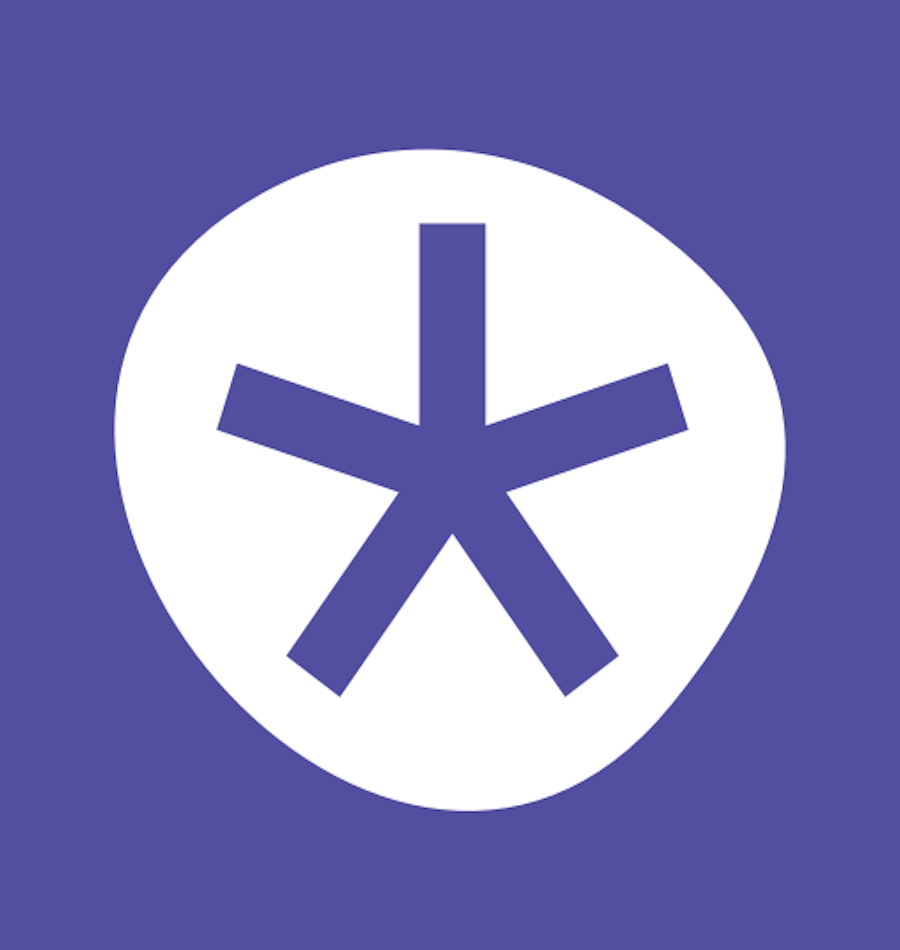
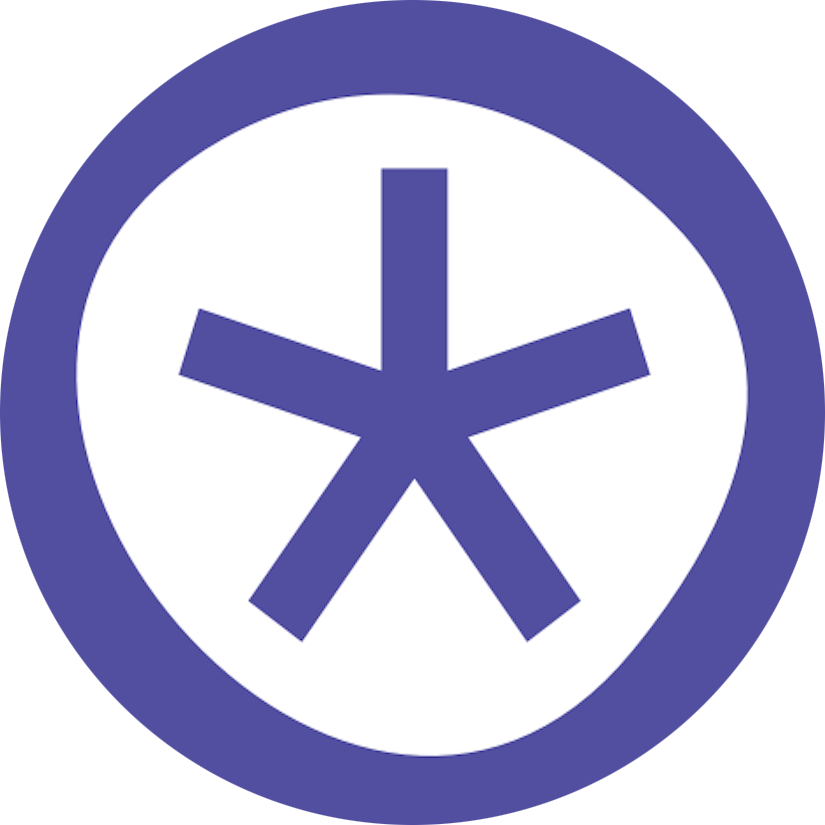
update

diff --git a/css/freelancer.min.css b/css/freelancer.min.css
@@ -2,4 +2,5 @@
  * Start Bootstrap - Freelancer v3.3.7+1 (http://startbootstrap.com/template-overviews/freelancer)
  * Copyright 2013-2016 Start Bootstrap
  * Licensed under MIT (https://github.com/BlackrockDigital/startbootstrap/blob/gh-pages/LICENSE)
- */body{font-family:Lato,'Helvetica Neue',Helvetica,Arial,sans-serif;overflow-x:hidden}p{font-size:20px}p.small{font-size:16px}a,a.active,a:active,a:focus,a:hover{color:#18BC9C}h1,h2,h3,h4,h5,h6{font-family:Montserrat,"Helvetica Neue",Helvetica,Arial,sans-serif;text-transform:uppercase;font-weight:700}hr.star-light,hr.star-primary{padding:0;border:none;border-top:solid 5px;text-align:center;max-width:250px;margin:25px auto 30px}hr.star-light:after,hr.star-primary:after{content:"\f005";font-family:FontAwesome;display:inline-block;position:relative;top:-.8em;font-size:2em;padding:0 .25em}hr.star-light{border-color:#fff}hr.star-light:after{background-color:#18BC9C;color:#fff}hr.star-primary{border-color:#2C3E50}hr.star-primary:after{background-color:#fff;color:#2C3E50}.img-centered{margin:0 auto}header{text-align:center;background:#18BC9C;color:#fff}header .container{padding-top:100px;padding-bottom:50px}header img{display:block;margin:0 auto 20px}header .intro-text .name{display:block;font-family:Montserrat,"Helvetica Neue",Helvetica,Arial,sans-serif;text-transform:uppercase;font-weight:700;font-size:2em}header .intro-text .skills{font-size:1.25em;font-weight:300}@media (min-width:768px){header .container{padding-top:200px;padding-bottom:100px}header .intro-text .name{font-size:4.75em}header .intro-text .skills{font-size:1.75em}}.navbar-custom{background:#2C3E50;font-family:Montserrat,"Helvetica Neue",Helvetica,Arial,sans-serif;text-transform:uppercase;font-weight:700;border:none}.navbar-custom .navbar-brand,.navbar-custom .navbar-brand.active,.navbar-custom .navbar-brand:active,.navbar-custom .navbar-brand:focus,.navbar-custom .navbar-brand:hover{color:#fff}.navbar-custom .navbar-nav{letter-spacing:1px}.navbar-custom .navbar-nav li a{color:#fff}.navbar-custom .navbar-nav li a:hover{color:#18BC9C}.navbar-custom .navbar-nav li a:active,.navbar-custom .navbar-nav li a:focus{color:#fff}.navbar-custom .navbar-nav li.active a,.navbar-custom .navbar-nav li.active a:active,.navbar-custom .navbar-nav li.active a:focus,.navbar-custom .navbar-nav li.active a:hover{color:#fff;background:#18BC9C}.navbar-custom .navbar-toggle{color:#fff;text-transform:uppercase;font-size:10px;border-color:#fff}.navbar-custom .navbar-toggle:focus,.navbar-custom .navbar-toggle:hover{background-color:#18BC9C;color:#fff;border-color:#18BC9C}@media (min-width:768px){.navbar-custom{padding:25px 0;-webkit-transition:padding .3s;-moz-transition:padding .3s;transition:padding .3s}.navbar-custom .navbar-brand{font-size:2em;-webkit-transition:all .3s;-moz-transition:all .3s;transition:all .3s}.navbar-custom.affix{padding:10px 0}.navbar-custom.affix .navbar-brand{font-size:1.5em}}section{padding:100px 0}section h2{margin:0;font-size:3em}section.success{background:#18BC9C;color:#fff}@media (max-width:767px){section{padding:75px 0}section.first{padding-top:75px}}#portfolio .portfolio-item{margin:0 0 15px;right:0}#portfolio .portfolio-item .portfolio-link{display:block;position:relative;max-width:400px;margin:0 auto}#portfolio .portfolio-item .portfolio-link .caption{background:rgba(255,255,255,.8);position:absolute;width:100%;height:100%;opacity:0;transition:all ease .5s;-webkit-transition:all ease .5s;-moz-transition:all ease .5s}#portfolio .portfolio-item .portfolio-link .caption:hover{opacity:1}#portfolio .portfolio-item .portfolio-link .caption .caption-content{position:absolute;width:100%;height:20px;font-size:20px;text-align:center;top:50%;margin-top:-12px;color:#fff}#portfolio .portfolio-item .portfolio-link .caption .caption-content i{margin-top:-12px}#portfolio .portfolio-item .portfolio-link .caption .caption-content h3,#portfolio .portfolio-item .portfolio-link .caption .caption-content h4{margin:0}#portfolio *{z-index:2}@media (min-width:767px){#portfolio .portfolio-item{margin:0 0 30px; height: 100px; width: 100px; border-radius: 50px;}}.floating-label-form-group{position:relative;margin-bottom:0;padding-bottom:.5em;border-bottom:1px solid #eee}.floating-label-form-group input,.floating-label-form-group textarea{z-index:1;position:relative;padding-right:0;padding-left:0;border:none;border-radius:0;font-size:1.5em;background:0 0;box-shadow:none!important;resize:none}.floating-label-form-group label{display:block;z-index:0;position:relative;top:2em;margin:0;font-size:.85em;line-height:1.764705882em;vertical-align:middle;vertical-align:baseline;opacity:0;-webkit-transition:top .3s ease,opacity .3s ease;-moz-transition:top .3s ease,opacity .3s ease;-ms-transition:top .3s ease,opacity .3s ease;transition:top .3s ease,opacity .3s ease}.floating-label-form-group:not(:first-child){padding-left:14px;border-left:1px solid #eee}.floating-label-form-group-with-value label{top:0;opacity:1}.floating-label-form-group-with-focus label{color:#18BC9C}form .row:first-child .floating-label-form-group{border-top:1px solid #eee}footer{color:#fff}footer h3{margin-bottom:30px}footer .footer-above{padding-top:50px;background-color:#2C3E50}footer .footer-col{margin-bottom:50px}footer .footer-below{padding:25px 0;background-color:#233140}.btn-outline{color:#fff;font-size:20px;border:2px solid #fff;background:0 0;transition:all .3s ease-in-out;margin-top:15px}.btn-outline.active,.btn-outline:active,.btn-outline:focus,.btn-outline:hover{color:#18BC9C;background:#fff;border:2px solid #fff}.btn-primary{color:#fff;background-color:#2C3E50;border-color:#2C3E50;font-weight:700}.btn-primary.active,.btn-primary:active,.btn-primary:focus,.btn-primary:hover,.open .dropdown-toggle.btn-primary{color:#fff;background-color:#1a242f;border-color:#161f29}.btn-primary.active,.btn-primary:active,.open .dropdown-toggle.btn-primary{background-image:none}.btn-primary.disabled,.btn-primary.disabled.active,.btn-primary.disabled:active,.btn-primary.disabled:focus,.btn-primary.disabled:hover,.btn-primary[disabled],.btn-primary[disabled].active,.btn-primary[disabled]:active,.btn-primary[disabled]:focus,.btn-primary[disabled]:hover,fieldset[disabled] .btn-primary,fieldset[disabled] .btn-primary.active,fieldset[disabled] .btn-primary:active,fieldset[disabled] .btn-primary:focus,fieldset[disabled] .btn-primary:hover{background-color:#2C3E50;border-color:#2C3E50}.btn-primary .badge{color:#2C3E50;background-color:#fff}.btn-success{color:#fff;background-color:#18BC9C;border-color:#18BC9C;font-weight:700}.btn-success.active,.btn-success:active,.btn-success:focus,.btn-success:hover,.open .dropdown-toggle.btn-success{color:#fff;background-color:#128f76;border-color:#11866f}.btn-success.active,.btn-success:active,.open .dropdown-toggle.btn-success{background-image:none}.btn-success.disabled,.btn-success.disabled.active,.btn-success.disabled:active,.btn-success.disabled:focus,.btn-success.disabled:hover,.btn-success[disabled],.btn-success[disabled].active,.btn-success[disabled]:active,.btn-success[disabled]:focus,.btn-success[disabled]:hover,fieldset[disabled] .btn-success,fieldset[disabled] .btn-success.active,fieldset[disabled] .btn-success:active,fieldset[disabled] .btn-success:focus,fieldset[disabled] .btn-success:hover{background-color:#18BC9C;border-color:#18BC9C}.btn-success .badge{color:#18BC9C;background-color:#fff}.btn-social{display:inline-block;height:50px;width:50px;border:2px solid #fff;border-radius:100%;text-align:center;font-size:20px;line-height:45px}.scroll-top{position:fixed;right:2%;bottom:2%;width:50px;height:50px;z-index:1049}.scroll-top .btn{font-size:20px;width:50px;height:50px;border-radius:100%;line-height:28px}.portfolio-modal .modal-content{border-radius:0;background-clip:border-box;-webkit-box-shadow:none;box-shadow:none;border:none;min-height:100%;padding:100px 0;text-align:center}.portfolio-modal .modal-content h2{margin:0;font-size:3em}.portfolio-modal .modal-content img{margin-bottom:30px}.portfolio-modal .modal-content .item-details{margin:30px 0}.portfolio-modal .close-modal{position:absolute;width:75px;height:75px;background-color:transparent;top:25px;right:25px;cursor:pointer}.portfolio-modal .close-modal:hover{opacity:.3}.portfolio-modal .close-modal .lr{height:75px;width:1px;margin-left:35px;background-color:#2C3E50;transform:rotate(45deg);-ms-transform:rotate(45deg);-webkit-transform:rotate(45deg);z-index:1051}.portfolio-modal .close-modal .lr .rl{height:75px;width:1px;background-color:#2C3E50;transform:rotate(90deg);-ms-transform:rotate(90deg);-webkit-transform:rotate(90deg);z-index:1052}.portfolio-modal .modal-backdrop{opacity:0;display:none}#skipnav a{padding:6px;position:absolute;top:-40px;left:0;color:#fff;border-right:1px solid #fff;border-bottom:1px solid #fff;border-bottom-right-radius:8px;background:0 0;transition:top 1s ease-out,background 1s linear;z-index:2000}#skipnav a:focus{position:absolute;left:0;top:0;background:#18BC9C;outline:0;transition:top .1s ease-in,background .5s linear}div#maincontent{outline:0}
+ */body{font-family:Lato,'Helvetica Neue',Helvetica,Arial,sans-serif;overflow-x:hidden}p{font-size:20px}p.small{font-size:16px}a,a.active,a:active,a:focus,a:hover{color:#18BC9C}h1,h2,h3,h4,h5,h6{font-family:Montserrat,"Helvetica Neue",Helvetica,Arial,sans-serif;text-transform:uppercase;font-weight:700}hr.star-light,hr.star-primary{padding:0;border:none;border-top:solid 5px;text-align:center;max-width:250px;margin:25px auto 30px}hr.star-light:after,hr.star-primary:after{content:"\f005";font-family:FontAwesome;display:inline-block;position:relative;top:-.8em;font-size:2em;padding:0 .25em}hr.star-light{border-color:#fff}hr.star-light:after{background-color:#18BC9C;color:#fff}hr.star-primary{border-color:#2C3E50}hr.star-primary:after{background-color:#fff;color:#2C3E50}.img-centered{margin:0 auto}header{text-align:center;background:#18BC9C;color:#fff}header .container{padding-top:100px;padding-bottom:50px}header img{display:block;margin:0 auto 20px}header .intro-text .name{display:block;font-family:Montserrat,"Helvetica Neue",Helvetica,Arial,sans-serif;text-transform:uppercase;font-weight:700;font-size:2em}header .intro-text .skills{font-size:1.25em;font-weight:300}@media (min-width:768px){header .container{padding-top:200px;padding-bottom:100px}header .intro-text .name{font-size:4.75em}header .intro-text .skills{font-size:1.75em}}.navbar-custom{background:#2C3E50;font-family:Montserrat,"Helvetica Neue",Helvetica,Arial,sans-serif;text-transform:uppercase;font-weight:700;border:none}.navbar-custom .navbar-brand,.navbar-custom .navbar-brand.active,.navbar-custom .navbar-brand:active,.navbar-custom .navbar-brand:focus,.navbar-custom .navbar-brand:hover{color:#fff}.navbar-custom .navbar-nav{letter-spacing:1px}.navbar-custom .navbar-nav li a{color:#fff}.navbar-custom .navbar-nav li a:hover{color:#18BC9C}.navbar-custom .navbar-nav li a:active,.navbar-custom .navbar-nav li a:focus{color:#fff}.navbar-custom .navbar-nav li.active a,.navbar-custom .navbar-nav li.active a:active,.navbar-custom .navbar-nav li.active a:focus,.navbar-custom .navbar-nav li.active a:hover{color:#fff;background:#18BC9C}.navbar-custom .navbar-toggle{color:#fff;text-transform:uppercase;font-size:10px;border-color:#fff}.navbar-custom .navbar-toggle:focus,.navbar-custom .navbar-toggle:hover{background-color:#18BC9C;color:#fff;border-color:#18BC9C}@media (min-width:768px){.navbar-custom{padding:25px 0;-webkit-transition:padding .3s;-moz-transition:padding .3s;transition:padding .3s}.navbar-custom .navbar-brand{font-size:2em;-webkit-transition:all .3s;-moz-transition:all .3s;transition:all .3s}.navbar-custom.affix{padding:10px 0}.navbar-custom.affix .navbar-brand{font-size:1.5em}}section{padding:100px 0}section h2{margin:0;font-size:3em}section.success{background:#18BC9C;color:#fff}@media (max-width:767px){section{padding:75px 0}section.first{padding-top:75px}}#portfolio .portfolio-item{margin:0 0 15px;right:0}#portfolio .portfolio-item .portfolio-link{display:block;position:relative;max-width:400px;margin:0 auto}#portfolio .portfolio-item .portfolio-link .caption{background:rgba(255,255,255,.8);position:absolute;width:100%;height:100%;opacity:0;transition:all ease .5s;-webkit-transition:all ease .5s;-moz-transition:all ease .5s}#portfolio .portfolio-item .portfolio-link .caption:hover{opacity:1}#portfolio .portfolio-item .portfolio-link .caption .caption-content{position:absolute;width:100%;height:20px;font-size:20px;text-align:center;top:50%;margin-top:-12px;color:#fff}#portfolio .portfolio-item .portfolio-link .caption .caption-content i{margin-top:-12px}#portfolio .portfolio-item .portfolio-link .caption .caption-content h3,#portfolio .portfolio-item .portfolio-link .caption .caption-content h4{margin:0}#portfolio *{z-index:2}@media (min-width:767px){#portfolio .portfolio-item{margin:0 0 30px;}}.floating-label-form-group{position:relative;margin-bottom:0;padding-bottom:.5em;border-bottom:1px solid #eee}.floating-label-form-group input,.floating-label-form-group textarea{z-index:1;position:relative;padding-right:0;padding-left:0;border:none;border-radius:0;font-size:1.5em;background:0 0;box-shadow:none!important;resize:none}.floating-label-form-group label{display:block;z-index:0;position:relative;top:2em;margin:0;font-size:.85em;line-height:1.764705882em;vertical-align:middle;vertical-align:baseline;opacity:0;-webkit-transition:top .3s ease,opacity .3s ease;-moz-transition:top .3s ease,opacity .3s ease;-ms-transition:top .3s ease,opacity .3s ease;transition:top .3s ease,opacity .3s ease}.floating-label-form-group:not(:first-child){padding-left:14px;border-left:1px solid #eee}.floating-label-form-group-with-value label{top:0;opacity:1}.floating-label-form-group-with-focus label{color:#18BC9C}form .row:first-child .floating-label-form-group{border-top:1px solid #eee}footer{color:#fff}footer h3{margin-bottom:30px}footer .footer-above{padding-top:50px;background-color:#2C3E50}footer .footer-col{margin-bottom:50px}footer .footer-below{padding:25px 0;background-color:#233140}.btn-outline{color:#fff;font-size:20px;border:2px solid #fff;background:0 0;transition:all .3s ease-in-out;margin-top:15px}.btn-outline.active,.btn-outline:active,.btn-outline:focus,.btn-outline:hover{color:#18BC9C;background:#fff;border:2px solid #fff}.btn-primary{color:#fff;background-color:#2C3E50;border-color:#2C3E50;font-weight:700}.btn-primary.active,.btn-primary:active,.btn-primary:focus,.btn-primary:hover,.open .dropdown-toggle.btn-primary{color:#fff;background-color:#1a242f;border-color:#161f29}.btn-primary.active,.btn-primary:active,.open .dropdown-toggle.btn-primary{background-image:none}.btn-primary.disabled,.btn-primary.disabled.active,.btn-primary.disabled:active,.btn-primary.disabled:focus,.btn-primary.disabled:hover,.btn-primary[disabled],.btn-primary[disabled].active,.btn-primary[disabled]:active,.btn-primary[disabled]:focus,.btn-primary[disabled]:hover,fieldset[disabled] .btn-primary,fieldset[disabled] .btn-primary.active,fieldset[disabled] .btn-primary:active,fieldset[disabled] .btn-primary:focus,fieldset[disabled] .btn-primary:hover{background-color:#2C3E50;border-color:#2C3E50}.btn-primary .badge{color:#2C3E50;background-color:#fff}.btn-success{color:#fff;background-color:#18BC9C;border-color:#18BC9C;font-weight:700}.btn-success.active,.btn-success:active,.btn-success:focus,.btn-success:hover,.open .dropdown-toggle.btn-success{color:#fff;background-color:#128f76;border-color:#11866f}.btn-success.active,.btn-success:active,.open .dropdown-toggle.btn-success{background-image:none}.btn-success.disabled,.btn-success.disabled.active,.btn-success.disabled:active,.btn-success.disabled:focus,.btn-success.disabled:hover,.btn-success[disabled],.btn-success[disabled].active,.btn-success[disabled]:active,.btn-success[disabled]:focus,.btn-success[disabled]:hover,fieldset[disabled] .btn-success,fieldset[disabled] .btn-success.active,fieldset[disabled] .btn-success:active,fieldset[disabled] .btn-success:focus,fieldset[disabled] .btn-success:hover{background-color:#18BC9C;border-color:#18BC9C}.btn-success .badge{color:#18BC9C;background-color:#fff}.btn-social{display:inline-block;height:50px;width:50px;border:2px solid #fff;border-radius:100%;text-align:center;font-size:20px;line-height:45px}.scroll-top{position:fixed;right:2%;bottom:2%;width:50px;height:50px;z-index:1049}.scroll-top .btn{font-size:20px;width:50px;height:50px;border-radius:100%;line-height:28px}.portfolio-modal .modal-content{border-radius:0;background-clip:border-box;-webkit-box-shadow:none;box-shadow:none;border:none;min-height:100%;padding:100px 0;text-align:center}.portfolio-modal .modal-content h2{margin:0;font-size:3em}.portfolio-modal .modal-content img{margin-bottom:30px}.portfolio-modal .modal-content .item-details{margin:30px 0}.portfolio-modal .close-modal{position:absolute;width:75px;height:75px;background-color:transparent;top:25px;right:25px;cursor:pointer}.portfolio-modal .close-modal:hover{opacity:.3}.portfolio-modal .close-modal .lr{height:75px;width:1px;margin-left:35px;background-color:#2C3E50;transform:rotate(45deg);-ms-transform:rotate(45deg);-webkit-transform:rotate(45deg);z-index:1051}.portfolio-modal .close-modal .lr .rl{height:75px;width:1px;background-color:#2C3E50;transform:rotate(90deg);-ms-transform:rotate(90deg);-webkit-transform:rotate(90deg);z-index:1052}.portfolio-modal .modal-backdrop{opacity:0;display:none}#skipnav a{padding:6px;position:absolute;top:-40px;left:0;color:#fff;border-right:1px solid #fff;border-bottom:1px solid #fff;border-bottom-right-radius:8px;background:0 0;transition:top 1s ease-out,background 1s linear;z-index:2000}#skipnav a:focus{position:absolute;left:0;top:0;background:#18BC9C;outline:0;transition:top .1s ease-in,background .5s linear}div#maincontent{outline:0}
+ .app-img{border-radius: 50%;}

diff --git a/portfolio.html b/portfolio.html
@@ -91,7 +91,7 @@
                 </div>
                 <div class="row">
                     <div class="col-sm-4">
-                        <img class="img-responsive img-centered" src="/assets/profile3.png" alt=""> <br />
+                        <img class="img-centered" src="/assets/profile3.png" alt=""> <br />
                     </div>
                     <div class="col-sm-4 text-center">
                         <h4>개발자 김보균입니다!</h4>
@@ -185,6 +185,7 @@
                     <button class="btn btn-default control" data-filter=".android">Android</button>
                     <button class="btn btn-default control" data-filter=".ionic">Ionic2</button>
                     <button class="btn btn-default control" data-filter=".ReactNative">ReactNative</button>
+                    <button class="btn btn-default control" data-filter=".Flutter">Flutter</button>
                     <button class="btn btn-default control" data-filter=".arduino">Arduino</button>
                     <button class="btn btn-default control" data-filter=".windows">Windows</button>
                     <br><br>
@@ -201,7 +202,7 @@
                                     <i class="fa fa-search-plus fa-3x"></i>
                                 </div>
                             </div>
-                            <img src="assets/portfolio/foroom.png" class="img-responsive" alt="포룸 인테리어">
+                            <img src="assets/portfolio/foroom.png" class="img-responsive app-img" alt="포룸 인테리어">
                         </a>
                     </div>
 
@@ -215,7 +216,7 @@
                                     <i class="fa fa-search-plus fa-3x"></i>
                                 </div>
                             </div>
-                            <img src="assets/portfolio/VOT.png" class="img-responsive" alt="천 개의 목소리">
+                            <img src="assets/portfolio/VOT.png" class="img-responsive app-img" alt="천 개의 목소리">
                         </a>
                     </div>
 
@@ -230,7 +231,7 @@
                                     <i class="fa fa-search-plus fa-3x"></i>
                                 </div>
                             </div>
-                            <img src="assets/portfolio/ardrumoid.png" class="img-responsive" alt="arDRUMoid">
+                            <img src="assets/portfolio/ardrumoid.png" class="img-responsive app-img" alt="arDRUMoid">
                         </a>
                     </div>
 
@@ -243,7 +244,7 @@
                                     <i class="fa fa-search-plus fa-3x"></i>
                                 </div>
                             </div>
-                            <img src="assets/portfolio/recipedia.png" class="img-responsive" alt="Recipedia">
+                            <img src="assets/portfolio/recipedia.png" class="img-responsive app-img" alt="Recipedia">
                         </a>
                     </div>
 
@@ -254,7 +255,7 @@
                                     <i class="fa fa-search-plus fa-3x"></i>
                                 </div>
                             </div>
-                            <img src="assets/portfolio/lookar.png" class="img-responsive" alt="LooKar">
+                            <img src="assets/portfolio/lookar.png" class="img-responsive app-img" alt="LooKar">
                         </a>
                     </div>
 
@@ -265,7 +266,7 @@
                                     <i class="fa fa-search-plus fa-3x"></i>
                                 </div>
                             </div>
-                            <img src="assets/portfolio/andante.png" class="img-responsive" alt="Andante">
+                            <img src="assets/portfolio/andante.png" class="img-responsive app-img" alt="Andante">
                         </a>
                     </div>
 
@@ -277,7 +278,7 @@
                                     <i class="fa fa-search-plus fa-3x"></i>
                                 </div>
                             </div>
-                            <img src="assets/portfolio/madlen.png" class="img-responsive" alt="Madlen">
+                            <img src="assets/portfolio/madlen.png" class="img-responsive app-img" alt="Madlen">
                         </a>
                     </div>
                     <div class="mix kbg android windows col-sm-4 portfolio-item">
@@ -287,17 +288,37 @@
                                     <i class="fa fa-search-plus fa-3x"></i>
                                 </div>
                             </div>
-                            <img src="assets/portfolio/dionysign.png" class="img-responsive" alt="Dionysign">
+                            <img src="assets/portfolio/dionysign.png" class="img-responsive app-img" alt="Dionysign">
                         </a>
                     </div>
-                    <div class="mix kbg ReactNative col-sm-4 portfolio-item">
+                    <div class="mix kbg ReactNative Flutter col-sm-4 portfolio-item">
                         <a href="#EliceMobile" class="portfolio-link" data-toggle="modal">
                             <div class="caption">
                                 <div class="caption-content">
                                     <i class="fa fa-search-plus fa-3x"></i>
                                 </div>
                             </div>
-                            <img src="assets/portfolio/elice.png" class="img-responsive" alt="EliceMobile">
+                            <img src="assets/portfolio/elice.png" class="img-responsive app-img" alt="EliceMobile">
+                        </a>
+                    </div>
+                    <div class="mix kbg Flutter col-sm-4 portfolio-item">
+                        <a href="#MarketViliage" class="portfolio-link" data-toggle="modal">
+                            <div class="caption">
+                                <div class="caption-content">
+                                    <i class="fa fa-search-plus fa-3x"></i>
+                                </div>
+                            </div>
+                            <img src="assets/portfolio/marketvilliage.png" class="img-responsive app-img" alt="MarketViliage">
+                        </a>
+                    </div>
+                    <div class="mix kbg Flutter col-sm-4 portfolio-item">
+                        <a href="#Boolio" class="portfolio-link" data-toggle="modal">
+                            <div class="caption">
+                                <div class="caption-content">
+                                    <i class="fa fa-search-plus fa-3x"></i>
+                                </div>
+                            </div>
+                            <img src="assets/portfolio/boolio.png" class="img-responsive app-img" alt="Boolio">
                         </a>
                     </div>
                 </div>
@@ -809,7 +830,7 @@
                                 <p> Elice Mobile
                                 </p>
                                 <br>
-                                담당 업무 : React Native(Android, IOS)
+                                담당 업무 : React Native, Flutter(Android, IOS)
                                 <ul class="list-inline item-details">
                                     <li>App Store:
                                         <strong><a
@@ -852,6 +873,68 @@
                                 </p>
                                 <br>
                                 담당 업무 : Android, Windows Form(c#)
+                                <br><br>
+                                <button type="button" class="btn btn-default" data-dismiss="modal"><i
+                                        class="fa fa-times"></i>
+                                    Close</button>
+                            </div>
+                        </div>
+                    </div>
+                </div>
+            </div>
+        </div>
+
+        <div class="portfolio-modal modal fade" id="Boolio" tabindex="-1" role="dialog" aria-hidden="true">
+            <div class="modal-content">
+                <div class="close-modal" data-dismiss="modal">
+                    <div class="lr">
+                        <div class="rl">
+                        </div>
+                    </div>
+                </div>
+                <div class="container">
+                    <div class="row">
+                        <div class="col-lg-8 col-lg-offset-2">
+                            <div class="modal-body">
+                                <h2>Dionysign</h2>
+                                <hr class="star-primary">
+                                <img src="assets/portfolio/boolio_view.png" class="img-responsive img-centered"
+                                    alt="">
+                                <p> 미국 ETF 포트폴리오 투자자문 서비스
+                                </p>
+                                <br>
+                                담당 업무 : Flutter
+                                <br><br>
+                                <button type="button" class="btn btn-default" data-dismiss="modal"><i
+                                        class="fa fa-times"></i>
+                                    Close</button>
+                            </div>
+                        </div>
+                    </div>
+                </div>
+            </div>
+        </div>
+
+        <div class="portfolio-modal modal fade" id="Dionysign" tabindex="-1" role="dialog" aria-hidden="true">
+            <div class="modal-content">
+                <div class="close-modal" data-dismiss="modal">
+                    <div class="lr">
+                        <div class="rl">
+                        </div>
+                    </div>
+                </div>
+                <div class="container">
+                    <div class="row">
+                        <div class="col-lg-8 col-lg-offset-2">
+                            <div class="modal-body">
+                                <h2>Dionysign</h2>
+                                <hr class="star-primary">
+                                <img src="assets/portfolio/marketvilliage_view.png" class="img-responsive img-centered"
+                                    alt="">
+                                <p> 아파트 엘베권 거래 플랫폼
+                                </p>
+                                <br>
+                                담당 업무 : Flutter
                                 <br><br>
                                 <button type="button" class="btn btn-default" data-dismiss="modal"><i
                                         class="fa fa-times"></i>

diff --git a/history.md b/history.md
@@ -12,7 +12,6 @@ permalink: /history/
 | 2016. 02. |  |  | 어플리케이션 '포룸 인테리어' 개발 |  |  |  [BackEnd][5], [Android][6]
 | 2016. 07. |  |  | '런차이 20 프로젝트' 창업경연대회 '우수상' |  |  |
 | 2016. 10. |  |  | '청년창업생태계조성사업 2016' A등급 성공 수료 |  |  |  
-| 2018. 11. |  |  | Elice App 출시 (ReactNative) |  |  |  [elice-editor][7]
 
 [1]: https://github.com/k4771kim/VoiceOfThousands
 [2]: https://github.com/k4771kim/RecipediaBackend
